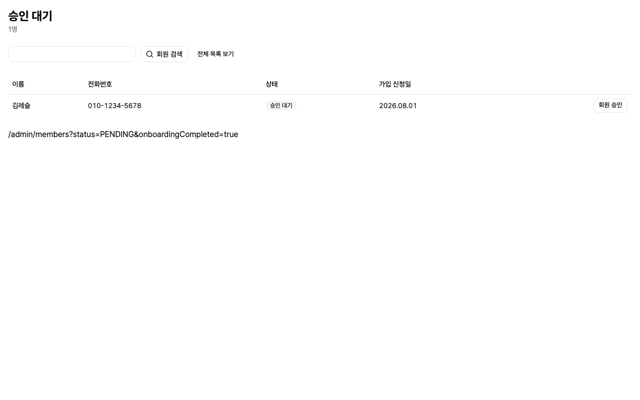
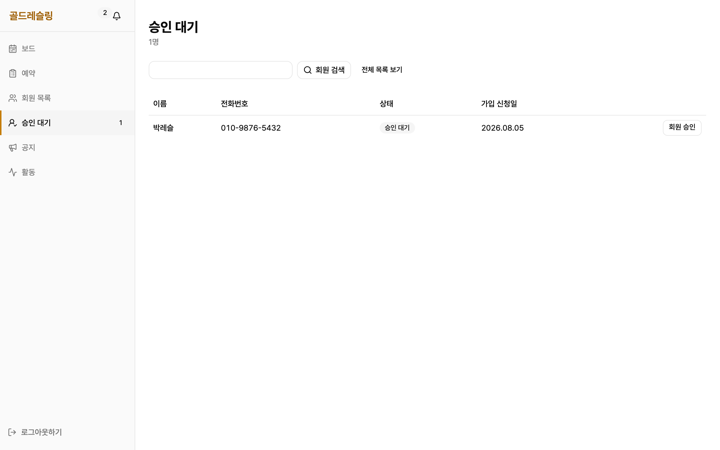
docs: FE Phase 10 반영 — 관리자 캡처 5장 재촬영, before/after 두 쌍 재작업, 수치·현황 최신화
- 관리자 캡처 5장을 FE dev(b3fed8b) 실제 앱(pnpm dev + MSW)으로 재촬영해 같은 파일명으로 교체
- sheet 쌍: 긴 공지 폼·같은 스크롤 위치로 재촬영 (before는 수정 전 커밋 7171331 워크트리)
- weeknav 쌍: 실측 테두리·라벨 표시. 캡션의 44px를 실측값 36px로 정정
- 수치 2026-09-17 재실측: 테스트 2,558 · PR 100 · 커밋 1,373 · 결정 194
- status·타임라인에 Phase 10 기계 검증 통과(실기기 7항목 Phase 11 이관), BE Phase 7 wave 4 반영
- 이미지 캐시 무효화용 ?v= 파라미터(SHOTS_VERSION), CAPTURE-LIST·TODO 정리

diff --git a/.vitepress/theme/Landing.vue b/.vitepress/theme/Landing.vue
@@ -2,7 +2,9 @@
 import { onMounted } from 'vue'
 import { withBase } from 'vitepress'
 
-const shot = (name) => withBase(`/shots/${name}`)
+// 같은 파일명으로 캡처를 교체하면 이 값을 올린다 — 브라우저·CDN 캐시가 옛 이미지를 붙잡지 않게 한다
+const SHOTS_VERSION = '20260917'
+const shot = (name) => `${withBase(`/shots/${name}`)}?v=${SHOTS_VERSION}`
 
 onMounted(() => {
   const reduce = window.matchMedia('(prefers-reduced-motion: reduce)').matches
@@ -39,14 +41,14 @@ onMounted(() => {
 
     <section class="numbers reveal" aria-labelledby="h-num">
       <h2 id="h-num">숫자로 보는 프로젝트</h2>
-      <p class="numbers-sub">2026년 9월 11일 기준으로 두 레포에서 직접 센 값입니다. 부하 테스트와 실사용 수치는 배포 뒤에 추가합니다.</p>
+      <p class="numbers-sub">2026년 9월 17일 기준으로 두 레포에서 직접 센 값입니다. 부하 테스트와 실사용 수치는 배포 뒤에 추가합니다.</p>
       <dl>
         <div><dd>85</dd><dt>요구사항 전부 충족<small>v1.0에서 정의한 요구사항 85건(백엔드 44 · 프론트엔드 41)이 모두 검증을 통과했습니다.</small></dt></div>
-        <div><dd>186</dd><dt>기록된 의사결정<small>왜 그렇게 했고 무엇을 기각했는지를 D-번호로 남긴 결정의 수입니다.</small></dt></div>
-        <div><dd>2,471</dd><dt>자동화 테스트<small>백엔드 883건, 프론트엔드 1,588건(단위 982 · 스토리 렌더 498 · E2E 108).</small></dt></div>
-        <div><dd>91</dd><dt>머지된 PR<small>프론트엔드 55건, 백엔드 36건. 모든 변경은 PR과 CI를 거쳐 들어갔습니다.</small></dt></div>
+        <div><dd>194</dd><dt>기록된 의사결정<small>왜 그렇게 했고 무엇을 기각했는지를 D-번호로 남긴 결정의 수입니다.</small></dt></div>
+        <div><dd>2,558</dd><dt>자동화 테스트<small>백엔드 885건, 프론트엔드 1,673건(단위 1,047 · 스토리 렌더 518 · E2E 108).</small></dt></div>
+        <div><dd>100</dd><dt>머지된 PR<small>프론트엔드 62건, 백엔드 38건. 두 레포 dev 브랜치 커밋은 1,373건이고, 모든 변경은 PR과 CI를 거쳐 들어갔습니다.</small></dt></div>
         <div><dd>0</dd><dt>초과 예약<small>정원 마지막 자리에 동시 요청을 보내는 테스트에서 정원을 넘긴 예약이 없었습니다.</small></dt></div>
-        <div><dd>59</dd><dt>UI 감사로 찾은 필수 수정 항목<small>전 화면을 세 가지 화면 폭으로 캡처해 터치 크기·버튼 위치·글자 크기를 측정한 결과입니다. 이 중 회원 화면 분은 수정을 마쳤습니다.</small></dt></div>
+        <div><dd>59</dd><dt>UI 감사로 찾은 필수 수정 항목<small>전 화면을 세 가지 화면 폭으로 캡처해 터치 크기·버튼 위치·글자 크기를 측정한 결과입니다. 회원·관리자 화면 모두 수정을 마쳤고 재감사에서 전부 통과했습니다. 실기기 확인 7항목만 남았습니다.</small></dt></div>
       </dl>
     </section>
 
@@ -118,8 +120,8 @@ onMounted(() => {
           <div>
             <h4>테스트 3층</h4>
             <ul class="plain">
-              <li>Vitest 982건. 순수 함수 판정의 경계값을 고정합니다.</li>
-              <li>Storybook 498 스토리를 실제 Chromium에서 렌더해 회귀를 잡습니다.</li>
+              <li>Vitest 1,047건. 순수 함수 판정의 경계값을 고정합니다.</li>
+              <li>Storybook 518 스토리를 실제 Chromium에서 렌더해 회귀를 잡습니다.</li>
               <li>Playwright 108 시나리오를 데스크탑 Chromium과 모바일 Safari 양쪽에서 돌립니다.</li>
               <li>axe 위반 0건, 주 액션 색 대비 10.5:1을 테스트로 고정했습니다.</li>
             </ul>
@@ -169,12 +171,13 @@ onMounted(() => {
               <li>시각은 <code>page.clock</code>으로 고정해 매번 같은 화면이 찍힙니다.</li>
               <li>결과는 런칭 전 필수 59건 · 권장 68건으로 분류하고, 실기기 확인을 거쳐 승인한 뒤에만 수정 기준이 됩니다.</li>
               <li>승인된 규칙은 디자인 시스템 규칙 파일로 옮겨 이후 작업이 읽습니다. 재감사는 승인본과 요소 단위로 대조해 회귀를 가려냅니다.</li>
+              <li>회원 화면(Phase 9)에 이어 관리자 화면(Phase 10)까지 수정을 마쳤고, 필수 59건이 재감사에서 항목별로 통과했습니다. 에뮬레이션이 못 잡는 실기기 7항목은 마지막 검증 단계에서 사람이 판정합니다.</li>
             </ul>
             <a :href="withBase('/highlights/ui-audit')">감사 파이프라인 자세히</a>
           </div>
           <div class="pair">
-            <figure><img :src="shot('sheet-before.png')" alt="시트 푸터 수정 전" loading="lazy"><figcaption>수정 전 · 버튼이 콘텐츠와 함께 스크롤</figcaption></figure>
-            <figure><img :src="shot('sheet-after.png')" alt="시트 푸터 수정 후" loading="lazy"><figcaption>수정 후 · sticky + safe-area</figcaption></figure>
+            <figure><img :src="shot('sheet-before.png')" alt="긴 공지 폼 시트, 수정 전. 등록 버튼이 화면 아래로 밀려 보이지 않는다" loading="lazy"><figcaption>수정 전 · 긴 폼에서 등록 버튼이 화면 밖으로 밀림</figcaption></figure>
+            <figure><img :src="shot('sheet-after.png')" alt="같은 폼·같은 스크롤 위치, 수정 후. 닫기와 등록 버튼이 하단에 고정돼 있다" loading="lazy"><figcaption>수정 후 · 같은 스크롤 위치, 버튼 하단 고정</figcaption></figure>
           </div>
         </div>
       </div>
@@ -196,7 +199,7 @@ onMounted(() => {
           <li>로그인은 카카오, 세션은 JWT. 액세스 토큰 30분, 리프레시 토큰 14일이고 리프레시 토큰은 한 번 쓰면 새로 발급합니다.</li>
           <li>오류 응답에는 항상 <code>code</code> 값이 실려 오고, 프론트엔드는 이 값으로만 분기합니다. 값 목록은 문서 한 장(error-codes.md)이 관리합니다.</li>
           <li>API 명세는 서버 코드에서 생성해 <code>openapi.yaml</code>로 커밋합니다. 프론트엔드는 이 파일에서 타입을 만들어 씁니다.</li>
-          <li>테스트 883건. 가짜 DB가 아니라 실제 PostgreSQL 컨테이너 위에서 돌립니다.</li>
+          <li>테스트 885건. 가짜 DB가 아니라 실제 PostgreSQL 컨테이너 위에서 돌립니다.</li>
         </ul>
       </div>
 
@@ -286,7 +289,8 @@ onMounted(() => {
         <li><time>2026.09.01</time><span>BE v1.0 완료. 요구사항 44/44, 테스트 883건</span></li>
         <li><time>2026.09.08</time><span>UI 감사 리포트 승인. 필수 59건 · 권장 68건</span></li>
         <li><time>2026.09.11</time><span>FE 회원 화면 수정 검증 통과 (Phase 9)</span></li>
-        <li class="next"><time>예정</time><span>FE 관리자 화면 수정·검증 (Phase 10·11), BE 배포·운영 (Phase 7~10), k6 실증</span></li>
+        <li><time>2026.09.17</time><span>FE 관리자 화면 수정 기계 검증 통과 (Phase 10). 필수 항목 전건 해소, 실기기 7항목은 Phase 11로 이관</span></li>
+        <li class="next"><time>예정</time><span>FE 최종 검증·실기기 확인 (Phase 11), BE 배포·운영 (Phase 7~10), k6 실증</span></li>
       </ol>
     </section>
 
@@ -306,7 +310,7 @@ onMounted(() => {
         <a :href="withBase('/status/')">프로젝트 현황</a>
         <a :href="withBase('/architecture')">아키텍처</a>
         <a :href="withBase('/ai-workflow/')">AI 협업 워크플로</a>
-        <a href="https://github.com/minsu-zip/gold-wrestling-be/blob/dev/docs/decisions.md">의사결정 기록 186건 (GitHub)</a>
+        <a href="https://github.com/minsu-zip/gold-wrestling-be/blob/dev/docs/decisions.md">의사결정 기록 194건 (GitHub)</a>
       </div>
     </footer>
   </main>

diff --git a/TODO.md b/TODO.md
@@ -1,32 +1,28 @@
 # TODO — 다음에 이 레포를 열 때 챙길 것
 
-마지막 갱신 2026-09-11. 완료하면 체크하고 날짜를 적는다.
+마지막 갱신 2026-09-17. 완료하면 체크하고 날짜를 적는다.
 
 ## 서비스 배포 후
 
 - [ ] **히어로 "상태" 행을 실제 링크로 교체** — `.vitepress/theme/Landing.vue` `.facts`의 "배포 준비 중 · goldwrestling.com 확보 · 실기기 검증 통과" → "운영 중 · [goldwrestling.com](https://goldwrestling.com)". FE(S3+CloudFront)와 BE(EC2, api.goldwrestling.com) 둘 다 올라간 뒤에.
 - [ ] 배포 흐름도의 "계획" 표기 제거 — `Landing.vue` `.pipe .node.plan` 클래스와 `<span class="st wip">계획</span>`, `architecture.md`의 "계획" 배지.
 - [ ] `status/index.md` 인프라 준비표·진행 예정표 갱신.
-- [ ] k6 결과·실사용 수치가 나오면 "숫자로 보는 프로젝트"에 추가 (`Landing.vue` `.numbers`).
-
-## FE Phase 10 (관리자 화면 수정) 완료 후
-
-- [ ] **관리자 캡처 전부 재촬영·교체** — 현재 랜딩의 `public/shots/admin-*.png`는 Phase 10 수정 전 화면이다. 감사에서 "런칭 전 필수" 판정을 받은 화면이 소개 이미지로 걸려 있는 상태. 대상 파일과 규격은 `CAPTURE-LIST.md` 관리자 표 참조. 같은 파일명으로 덮어쓰면 `Landing.vue` 수정 없음.
+- [ ] **k6 결과·실사용 수치 (TBD)** — 초과 예약 0건과 p95, 실사용 회원·예약 수가 나오면 "숫자로 보는 프로젝트"에 추가 (`Landing.vue` `.numbers`).
 
 ## FE Phase 11 (검증) 완료 후
 
 - [ ] **데모 GIF 2건 촬영** — 회원 예약 플로우 `public/demo-member.gif`, 관리자 플로우 `public/demo-admin.gif`. 규격·시나리오는 `CAPTURE-LIST.md`. 촬영 후 `Landing.vue` 히어로 아래에 배치(현재는 정지 캡처만으로 성립하므로 급하지 않음).
-- [ ] 회원 캡처도 최종 화면으로 재촬영 (`login-mobile` 등 v1.1 Phase 9 이전 캡처 포함).
-- [ ] `highlights/ui-audit.md`의 before/after를 Phase 11 재감사 캡처로 교체.
+- [ ] **최종 재캡처 여부 판단** — Phase 11 실기기 확인(VERI-03, Phase 10에서 넘어온 7항목 포함)에서 화면이 바뀌면 2026-09-17에 찍은 관리자 5장과 before/after 두 쌍을 다시 찍는다. 바뀌지 않으면 그대로 둔다.
+- [ ] 회원 캡처를 최종 화면으로 재촬영 (`login-mobile` 등 v1.1 Phase 9 이전 임시본 포함). 같은 때 `admin-activity-desktop.png`도 셸이 있는 실제 앱 화면으로 교체.
+- [ ] 랜딩 "UI 감사" 수치 문구와 `status/index.md`에서 "실기기 확인 7항목만 남았습니다"를 결과로 교체.
 
 ## 마일스톤마다
 
 - [ ] `status/index.md` 갱신 (페이지 상단 "마지막 갱신" 날짜 포함).
-- [ ] "숫자로 보는 프로젝트" 실측값 갱신 — 테스트 수(`pnpm test`, `./gradlew test`), 머지 PR 수(`gh pr list --state merged`), 결정 수(`grep -c '^## D-' docs/decisions.md`).
+- [ ] "숫자로 보는 프로젝트" 실측값 갱신 — 테스트 수(FE `pnpm test` + `pnpm exec playwright test --list`, BE `./gradlew test` 후 `build/test-results` 합계), 머지 PR 수(`gh pr list --state merged`), 커밋 수(`git rev-list --count dev`), 결정 수(`grep -c '^## D-' docs/decisions.md`). BE PR #40(D-195)이 머지되면 결정 수는 195.
 - [ ] 타임라인에 마일스톤 항목 추가.
 
 ## 완료
 
-- [x] 2026-09-11 푸터에 GitHub 프로필(github.com/minsu-zip) 링크 추가.
-- [x] 2026-09-11 계약 기반 협업 상세 페이지(`highlights/contract.md`) 복원, FE 파트 "openapi 계약" 항목에서 링크.
-- [x] 2026-09-11 관리자 캡처 교체 대상을 `CAPTURE-LIST.md`에 표기.
+- [x] 2026-09-17 관리자 캡처 5장을 FE Phase 10 이후 화면으로 재촬영·교체, before/after 두 쌍 재작업, 수치·현황·타임라인 갱신.
+- [x] 2026-09-11 푸터 GitHub 프로필 링크, 계약 기반 협업 상세 페이지 복원.

diff --git a/highlights/ui-audit.md b/highlights/ui-audit.md
@@ -30,12 +30,12 @@ title: UI 감사 파이프라인
 ## 결과
 
 <div class="shots wide">
-  <figure><img src="/shots/weeknav-before.png" alt="주 이동 수정 전"><figcaption><b>주 이동 · 수정 전</b> 화살표 32px. 공용 컴포넌트라 관리자 보드에도 같은 위반</figcaption></figure>
-  <figure><img src="/shots/weeknav-after.png" alt="주 이동 수정 후"><figcaption><b>수정 후</b> 44px. 재감사에서 관리자 보드 항목이 함께 닫힘</figcaption></figure>
+  <figure><img src="/shots/weeknav-before.png?v=20260917" alt="주 이동 버튼 수정 전. 32×32로 기준 36px 미달"><figcaption><b>주 이동 · 수정 전</b> 화살표 32×32, 행 액션 기준 36px 미달. 공용 컴포넌트라 관리자 보드에도 같은 위반</figcaption></figure>
+  <figure><img src="/shots/weeknav-after.png?v=20260917" alt="주 이동 버튼 수정 후. 36×36으로 기준 통과"><figcaption><b>수정 후</b> 36×36. 재감사에서 관리자 보드 항목이 함께 닫힘. 테두리와 수치는 감사 도구의 실측값을 캡처 위에 표시한 것</figcaption></figure>
 </div>
 <div class="shots">
-  <figure><img src="/shots/sheet-before.png" alt="시트 수정 전"><figcaption><b>Sheet 푸터 · 수정 전</b> 버튼이 콘텐츠와 함께 스크롤</figcaption></figure>
-  <figure><img src="/shots/sheet-after.png" alt="시트 수정 후"><figcaption><b>수정 후</b> sticky + safe-area. 한 곳 수정으로 5화면 해소 (D-182)</figcaption></figure>
+  <figure><img src="/shots/sheet-before.png?v=20260917" alt="긴 공지 폼 시트, 수정 전. 등록 버튼이 화면 아래로 밀려 보이지 않는다"><figcaption><b>Sheet 푸터 · 수정 전</b> 본문이 긴 폼에서 등록 버튼이 화면 밖으로 밀림</figcaption></figure>
+  <figure><img src="/shots/sheet-after.png?v=20260917" alt="같은 폼·같은 스크롤 위치, 수정 후. 닫기와 등록 버튼이 하단에 고정돼 있다"><figcaption><b>수정 후</b> 같은 데이터·같은 스크롤 위치. sticky + safe-area, 한 곳 수정으로 5화면 해소 (D-182)</figcaption></figure>
   <figure><img src="/shots/login-mobile.png" alt="로그인"><figcaption><b>로그인</b> 카카오 CTA 하단 고정 (D-180)</figcaption></figure>
 </div>
 
@@ -43,6 +43,8 @@ title: UI 감사 파이프라인
 
 - 재감사는 전수 재실행 후 승인본과 요소 단위로 대조합니다. 바뀌어야 할 것을 재실행 전에 표로 선언하고, 상이 항목을 전부 매핑하거나 회귀 후보로 분류합니다 (D-184).
 - Phase 9 결과: 선언 매핑 21건, 파급 2건, 회귀 후보 1건. 필수 0건 화면 4개는 불변.
-- 에뮬레이션이 못 잡는 항목(safe-area 이중 계상, iOS 키보드 위 CTA)은 실기기 체크리스트로 사람이 판정합니다.
+- Phase 10 결과(2026-09-17): 관리자 몫 필수 39건(#21~#59)을 요소 단위로 재대조해 전건 통과. 명단 패널 출석 컨트롤 60행이 전부 40px·간격 8px, 데스크탑 주간 보드 52요소는 치수 변화 0. Phase 9의 회귀 후보 1건도 승인본 값으로 복구됐습니다.
+- 에뮬레이션이 못 잡는 항목(safe-area 이중 계상, iOS 키보드 위 CTA)은 실기기 체크리스트로 사람이 판정합니다. Phase 10의 실기기 7항목은 Phase 11에서 함께 판정합니다.
+- 위 before/after는 수정 전 커밋을 별도 워크트리로 체크아웃해 같은 목 데이터·같은 고정 시각·같은 스크롤 위치로 찍었습니다.
 
-근거: [decisions.md](https://github.com/minsu-zip/gold-wrestling-be/blob/dev/docs/decisions.md) D-154~D-158 · D-167 · D-184, FE `.planning/phases/07-audit-infra/07-REPORT.md`
+근거: [decisions.md](https://github.com/minsu-zip/gold-wrestling-be/blob/dev/docs/decisions.md) D-154~D-158 · D-167 · D-184 · D-187~D-194, FE `.planning/phases/07-audit-infra/07-REPORT.md` · `10-admin-screens/10-VERIFICATION.md`

diff --git a/status/index.md b/status/index.md
@@ -4,12 +4,12 @@ title: 프로젝트 현황
 
 # 프로젝트 현황
 
-마일스톤이 끝날 때마다 갱신합니다. 마지막 갱신 2026-09-11.
+마일스톤이 끝날 때마다 갱신합니다. 마지막 갱신 2026-09-17.
 
 | 영역 | 완료 | 진행 예정 |
 | --- | --- | --- |
 | BE | v1.0 Phase 1~6 (2026-09-01) | v1.1 배포·운영 Phase 7~10 |
-| FE | v1.0 M1~M6 (2026-08-31) · v1.1 Phase 7~9 | v1.1 Phase 10~11 |
+| FE | v1.0 M1~M6 (2026-08-31) · v1.1 Phase 7~10 (Phase 10은 기계 검증 통과, 실기기 대기) | v1.1 Phase 11 |
 | 인프라 | 계정·도메인·인증서·빈 서버 | 서버 구성, 배포 파이프라인, 백업, 부하 실증 |
 
 ## 완료 <span class="st done">v1.0 + FE v1.1 일부</span>
@@ -20,13 +20,14 @@ title: 프로젝트 현황
 
 **FE v1.1 · Phase 7~9.** 감사 인프라(전 화면 × 3 뷰포트 캡처·측정, 필수 59건), 규칙 명문화, 회원 화면 수정(CTA 하단 고정, 터치 타깃, Sheet 푸터, 브랜드 골드 주 액션 색).
 
+**FE v1.1 · Phase 10 (2026-09-17).** 관리자 화면 수정. 명단 패널 출석 3상태 컨트롤을 40px·간격 8px로 맞추고 448px 패널에서 줄바꿈·넘침이 없음을 확인했습니다. 승인 리포트의 관리자 몫 필수 39건(#21~#59)을 요소 단위로 재대조해 전건 통과했고, 데스크탑 주간 보드 52요소의 치수 변화는 0이라 표 밀도가 그대로입니다. 기계 검증은 로드맵 성공 기준 4/4, 요구사항 3/3 통과입니다. 에뮬레이션으로 판정할 수 없는 실기기 7항목(Sheet 푸터와 홈 인디케이터, iOS 키보드 위 버튼 도달, 출석 연속 전환 오탭, 뱃지 가림)은 Phase 11 VERI-03에서 확인합니다.
+
 ## 진행 예정
 
 | 항목 | 내용 | 상태 |
 | --- | --- | --- |
-| FE Phase 10 | 관리자 화면 수정. 명단 패널 Sheet 배치, 출석 컨트롤 터치 타깃, 데스크탑 표 밀도 유지 | <span class="st todo">예정</span> |
-| FE Phase 11 | 검증. 전 화면 재캡처 대조, 필수 59건 항목별 확인, 실기기 체크리스트 | <span class="st todo">예정</span> |
-| BE Phase 7 | 컨테이너화·서버 구성. Dockerfile, compose(app+postgres+Caddy), 메모리 예산, GHCR 게시 | <span class="st wip">6개 중 5개 완료</span> |
+| FE Phase 11 | 검증. 전 화면 재캡처 대조, 필수 59건 항목별 확인, 실기기 체크리스트(Phase 10에서 넘어온 7항목 포함) | <span class="st todo">예정</span> |
+| BE Phase 7 | 컨테이너화·서버 구성. Dockerfile, compose(app+postgres+Caddy), 메모리 예산, GHCR 게시까지 완료(플랜 5/6). 남은 07-06은 실 EC2 수동 배포와 HTTPS·메모리 실측 | <span class="st wip">wave 4(07-06) 진행 중</span> |
 | BE Phase 8 | 배포 파이프라인. main push → CI → GHCR → SSH 배포 → health 게이트 | <span class="st todo">예정</span> |
 | BE Phase 9 | 운영 안전장치. S3 백업, 복구 리허설, 로그 로테이션 | <span class="st todo">예정</span> |
 | BE Phase 10 | k6로 초과 예약 0건 실증, 미사용 차감 cron 활성화 | <span class="st todo">예정</span> |

diff --git a/ai-workflow/index.md b/ai-workflow/index.md
@@ -55,7 +55,7 @@ FE 세션과 BE 세션은 서로의 코드를 읽지 않고 BE 레포의 `docs/`
 | `glossary.md` | 두 레포가 같은 이름을 쓰게 하는 용어집 |
 | `error-codes.md` | FE가 분기하는 `code` 값의 유일한 계약 |
 | `api/openapi.yaml` | API 계약. 없는 API는 구현하지 않음 |
-| `decisions.md` | 결정 186건. FE 결정도 같은 파일에 D-번호로 |
+| `decisions.md` | 결정 194건. FE 결정도 같은 파일에 D-번호로 |
 
 ## 게이트
 
